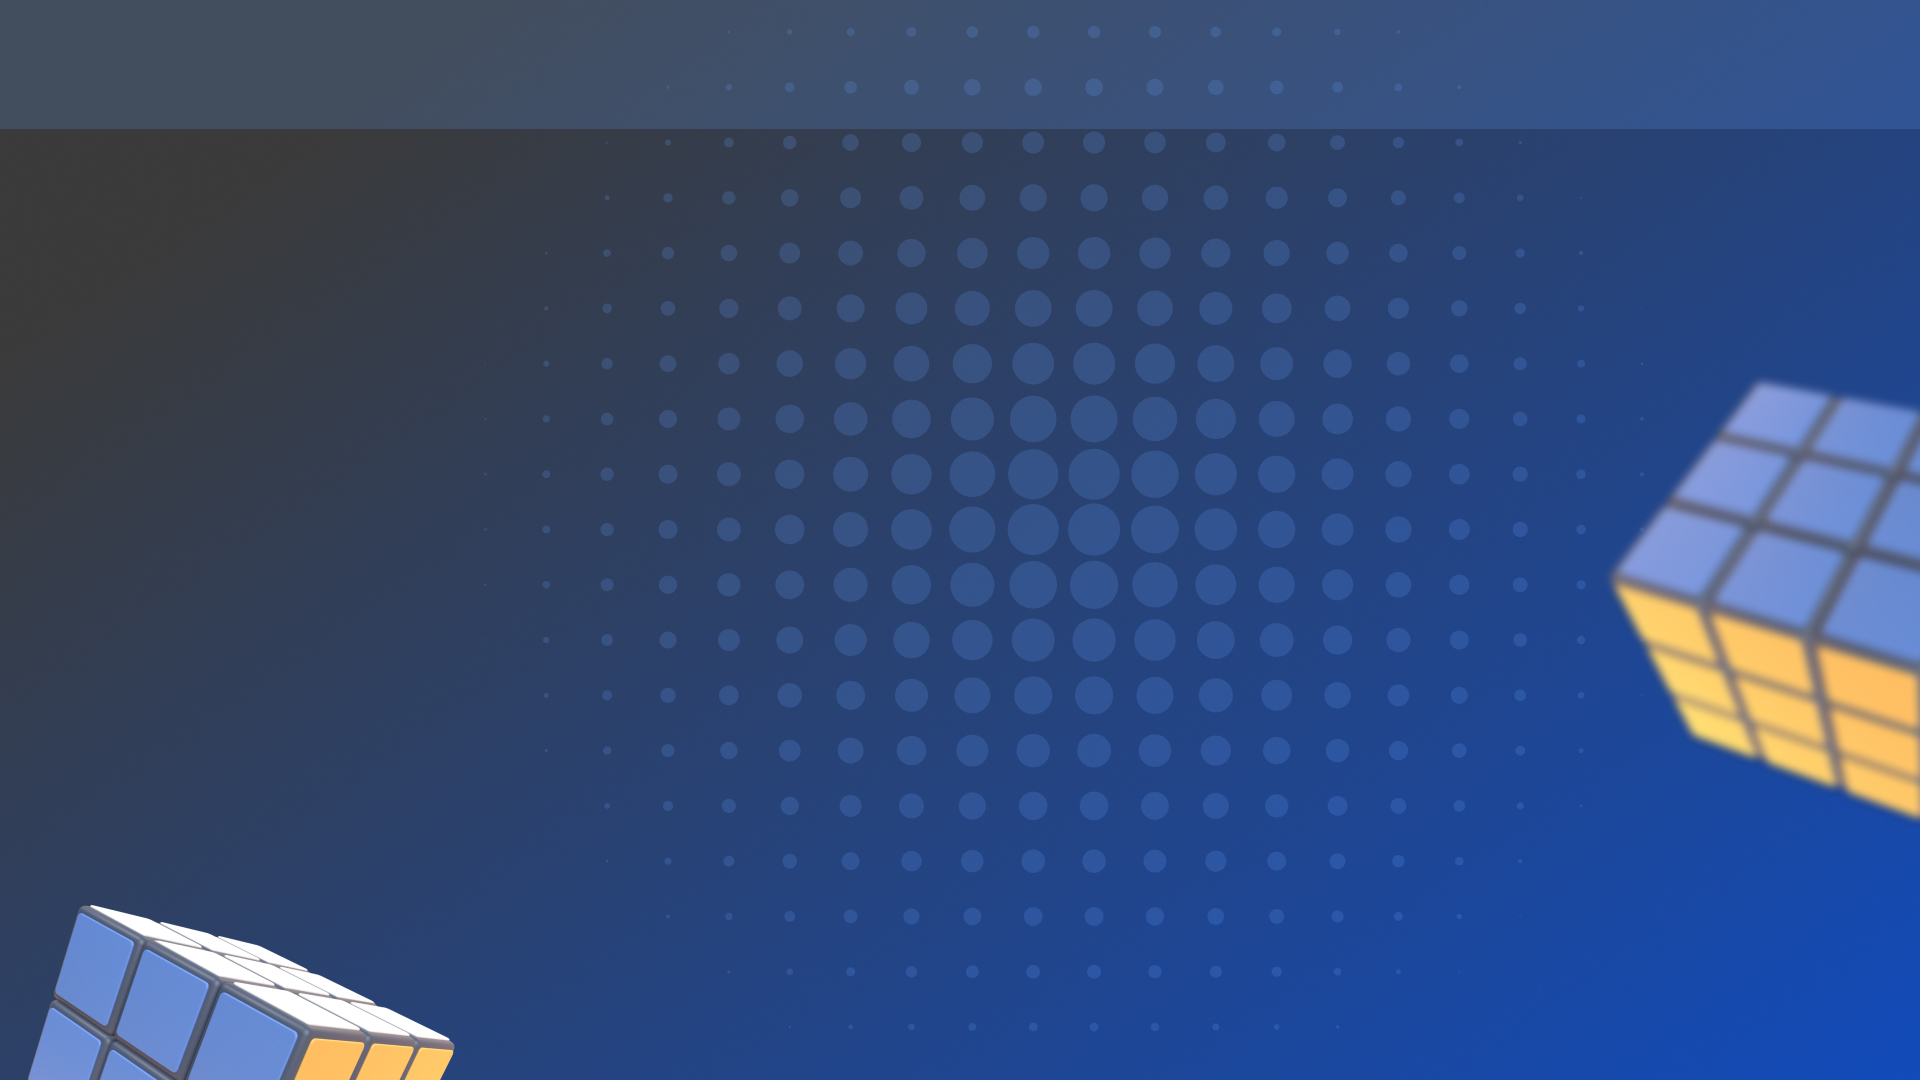
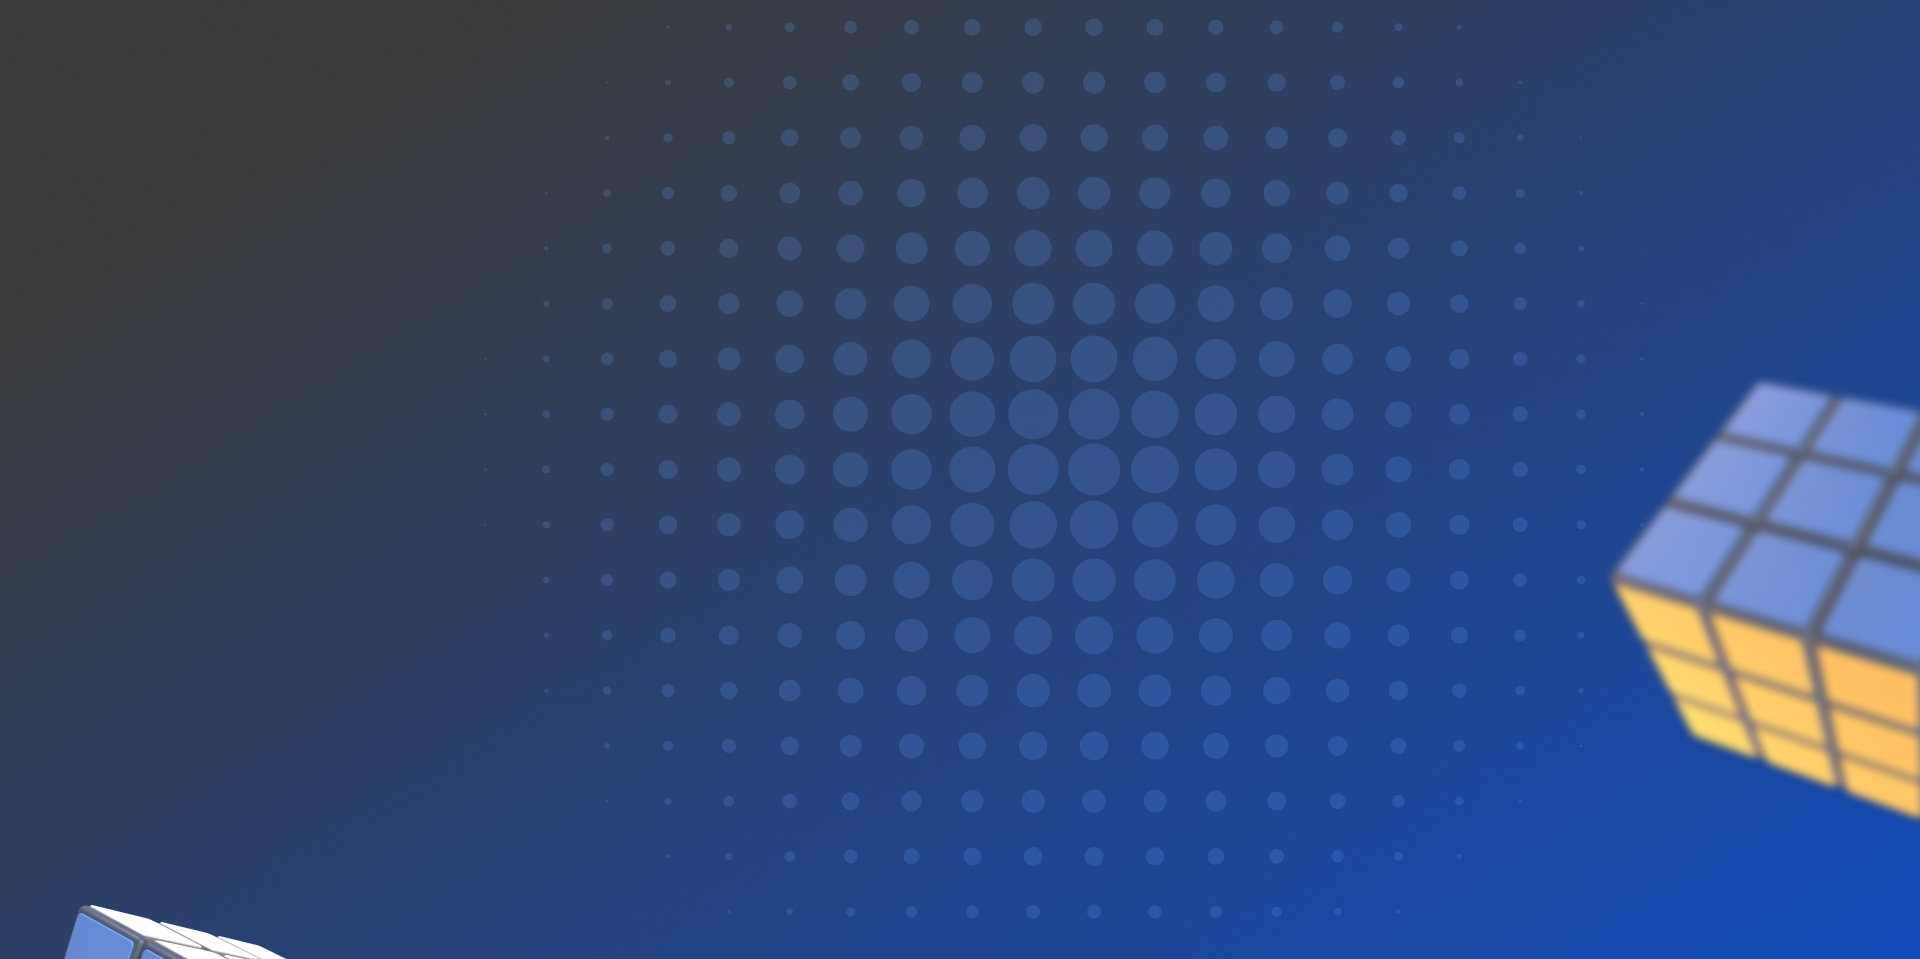
refactoring of css in portfolio page

diff --git a/src/Components/Portfolio/PortfolioElems.js b/src/Components/Portfolio/PortfolioElems.js
@@ -4,11 +4,9 @@ export const PortfolioContainer = styled.div`
   height: 100%;
   display: flex;
   flex-direction: column;
-  justify-content: center;
   align-items: center;
   color: '#030029';
   overflow:hidden;
-  margin-bottom: 20px;
 
 `;
 
@@ -19,7 +17,6 @@ export const PortfolioWrapper = styled.div`
   align-items: center;
   grid-gap: 50px;
   padding: 10px 50px;
-  
 `;
 
 export const PortfolioCard = styled.div`
@@ -58,6 +55,7 @@ export const PortfolioH1 = styled.h1`
   font-size: 50px;
   text-align: center;
   text-shadow: 0 0 10px #fff59d;
+  marginTop: 100px; 
 `;
 
 export const PortfolioH2 = styled.h2`

diff --git a/src/Components/About/index.js b/src/Components/About/index.js
@@ -1,12 +1,11 @@
 import "./style.scss";
 import React from "react";
-// import DownloadButton from "../CV Button";
 
 
 
 const About = () => {
   return (
-    <div className="container">
+    <div className="about-container">
       <div className="about-background">
         <div className="text-zone">
           <div className="about-container">
@@ -17,7 +16,6 @@ const About = () => {
              bdfbdbdfbdfbdfbdfbdfbdfbdfbdfb
             </p>
         
-            {/* <DownloadButton /> */}
           </div>
         </div>
       </div>

diff --git a/src/Components/Portfolio/style.css b/src/Components/Portfolio/style.css
@@ -1,4 +1,9 @@
-.container{
-    /* background-image: '../../Images/Portfolio.jpg'; */
+.portfolio-container{
+    height: 884px;
+}
+.portfolio-background{
+    background-image: url('../../Images/Portfolio.jpg');
     color: black;
+    height: 100%;
+    width: 100%;
 }

diff --git a/src/Components/Portfolio/index.js b/src/Components/Portfolio/index.js
@@ -30,7 +30,7 @@ const Portfolio = () => {
   }
 
     return (
-      <div className="container">
+      <div className="portfolio-container">
       <div className="portfolio-background">
         <PortfolioContainer>
             <PortfolioH1>Portfolio</PortfolioH1>

diff --git a/src/Components/About/style.scss b/src/Components/About/style.scss
@@ -1,9 +1,12 @@
-
+.about-container{
+  display: flex;
+  align-items: center;
+  height: 884px;
+  z-index: 1
+}
 
 .about-background {
     background-image: url('../../Images/About.jpg');
-    position: absolute;
-    width: 100%; 
     height: 100%; 
     
 }
